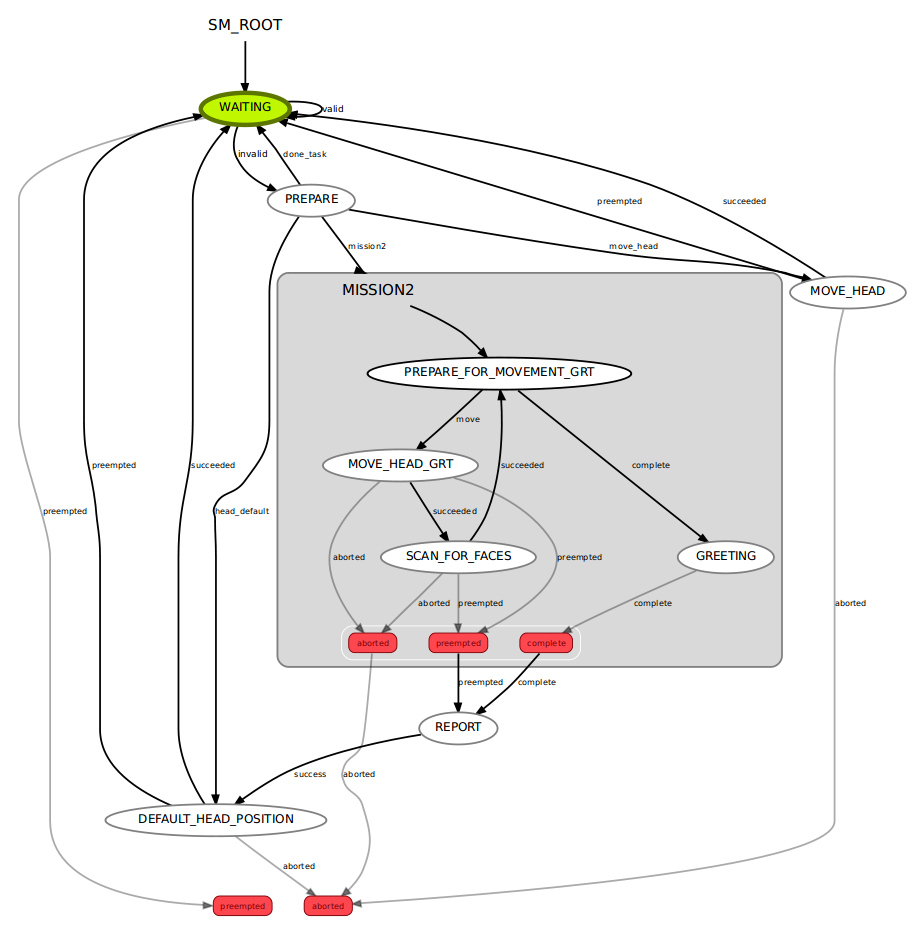
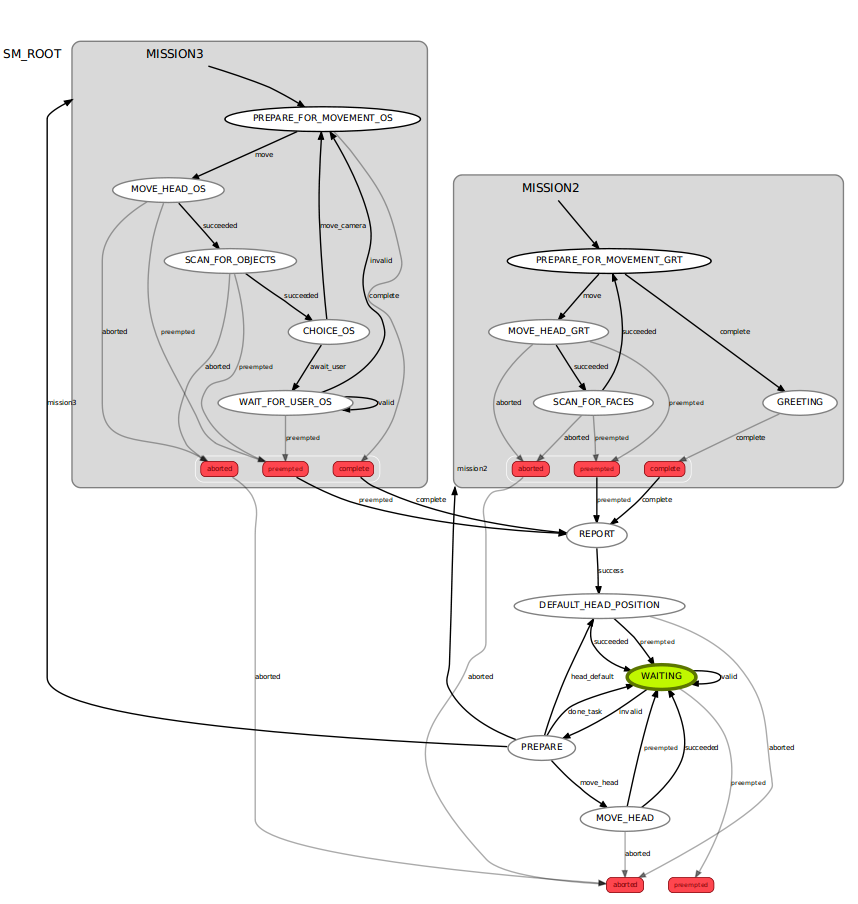
Adding back in mission3

diff --git a/src/missions_lib/object_search.py b/src/missions_lib/object_search.py
@@ -1,0 +1,142 @@
+#!/usr/bin/env python
+# States for searching for an object
+
+import rospy
+from std_msgs.msg import Empty
+from smach import State, StateMachine
+from smach_ros import SimpleActionState, MonitorState
+from actionlib_msgs.msg import GoalStatus
+from head_control.msg import point_headAction, point_headGoal
+from tf_object_detection.msg import scan_for_objectsAction
+
+# Child (derived) class. Parent class is StateMachine
+class Mission3StateMachine(StateMachine):
+    def __init__(self, helper_obj):
+        StateMachine.__init__(self, outcomes=['complete', 'preempted','aborted'], input_keys=['mission_data','start'])
+
+        self.__helper_obj = helper_obj
+
+        with self:
+            # This state will calculate the next head/camera position
+            StateMachine.add('PREPARE_FOR_MOVEMENT_OS',
+                             PrepareMovementObjectSearch(self.__helper_obj),
+                             transitions={'complete':'complete','move':'MOVE_HEAD_OS'},
+                             remapping={'start_in':'start','start_out':'start'})
+                                 
+            # This state will call the action to move the head/camera
+            StateMachine.add('MOVE_HEAD_OS',
+                             SimpleActionState('head_control_node',
+                             point_headAction,                                                            
+                             goal_slots=['absolute','pan','tilt']),
+                             transitions={'succeeded':'SCAN_FOR_OBJECTS','preempted':'preempted','aborted':'aborted'},
+                             remapping={'absolute':'user_data_absolute','pan':'user_data_pan','tilt':'user_data_tilt'}) 
+                
+            # This state will call the action to scan for objects on the image from the camera.
+            StateMachine.add('SCAN_FOR_OBJECTS',
+                             SimpleActionState('object_detection',
+                             scan_for_objectsAction,
+                             result_cb=self.object_detection_result_cb,
+                             input_keys = ['mission_data'],
+                             output_keys = ['object_detected']),
+                             transitions={'succeeded':'CHOICE_OS','preempted':'preempted','aborted':'aborted'})                
+                
+            # This state will will make the decision which state to move to
+            # next. If the object in question was detected then it will move
+            # to a state that waits for user interaction. If the object was
+            # not detected then it will move to the state to move the camera.
+            # This seems a bit of an overkill but the SimpleActionState before it
+            # can only provide the three possible outcomes 'succeeded', 'aborted'
+            # or 'preempted'. This state will request speech to state the
+            # object was found.
+            StateMachine.add('CHOICE_OS',
+                              ChoiceObjectSearch(self.__helper_obj),           
+                              transitions= {'move_camera':'PREPARE_FOR_MOVEMENT_OS',
+                                            'await_user':'WAIT_FOR_USER_OS'})
+
+            # This state will wait for a message indicating the user wishes
+            # to move on. It will allow the user to examine the camera feed
+            # once an object was detected
+            StateMachine.add('WAIT_FOR_USER_OS',
+                             MonitorState('/missions/acknowledge',
+                             Empty,
+                             self.UserAckOS),
+                             transitions={'valid':'WAIT_FOR_USER_OS',
+                                          'invalid':'PREPARE_FOR_MOVEMENT_OS',
+                                          'preempted':'preempted'})
+
+    def object_detection_result_cb(self, userdata, status, result):
+        if status == GoalStatus.SUCCEEDED:
+            # Extract the result results
+            if len(result.names_detected) == 0:
+                # No objects recognised
+                userdata.object_detected = False
+            else:
+                # Objects detected, but did we find the one we are interested in?
+                userdata.object_detected = False
+                for n in result.names_detected:
+                    if n == userdata.mission_data:
+                        userdata.object_detected = True                      
+                        break
+
+        # By not returning anything here (at this indentation) the state will 
+        # return with the corresponding outcome of the action 
+
+    def UserAckOS(self, userdata, msg):
+        # User acknowledged so move on        
+        
+        # Returning False means the state transition will follow the invalid outcome
+        return False
+
+# PREPARE_FOR_MOVEMENT_OS State
+class PrepareMovementObjectSearch(State):
+    def __init__(self, helper_obj):
+        State.__init__(self, outcomes=['complete','move'],
+                       input_keys=['start_in'],
+                       output_keys=['start_out','user_data_absolute','user_data_pan','user_data_tilt'])
+        self.__helper_obj = helper_obj                                 
+                       
+    def execute(self, userdata):
+        # Is this a new search?
+        if userdata.start_in == True:
+            userdata.start_out = False
+            scan_complete = False
+            # get the camera start position (pan min and tilt min)
+            position_request_pan, position_request_tilt = self.__helper_obj.CameraToStartPos()
+        else:            
+            scan_complete, position_request_pan, position_request_tilt = self.__helper_obj.CameraToNextPos()
+
+        # Set up user data that will be used for goal in next state if not complete
+        userdata.user_data_absolute = True
+        userdata.user_data_pan = position_request_pan
+        userdata.user_data_tilt = position_request_tilt
+
+        if scan_complete == True:
+            greeting = "Mission complete Rodney standing by"            
+            self.__helper_obj.Speak(greeting, greeting)
+            next_outcome = 'complete'
+        else:
+            next_outcome = 'move'                
+        	    
+        return next_outcome
+
+# CHOICE_OS State
+class ChoiceObjectSearch(State):
+    def __init__(self, helper_obj):
+        State.__init__(self, outcomes=['move_camera','await_user'],
+                       input_keys=['object_detected','mission_data'])
+        self.__helper_obj = helper_obj
+                       
+    def execute(self, userdata):
+        # Now make the decission on the next state to transit to based on if
+        # the object was detected on the last scan
+        if userdata.object_detected == True:
+            next_outcome = 'await_user'
+            # We will also request that the robot speaks in response to detecting the object
+            greeting = userdata.mission_data + " detected"
+            rospy.loginfo(greeting)
+            self.__helper_obj.Speak(greeting, greeting)
+        else:
+            next_outcome = 'move_camera'
+        
+        return next_outcome    
+

diff --git a/src/rodney_missions_node.py b/src/rodney_missions_node.py
@@ -173,7 +173,7 @@ class MissionsHelper():
 # The PREPARE state
 class Prepare(State):
     def __init__(self, helper_obj):
-        State.__init__(self, outcomes=['mission2','done_task','head_default','move_head'], 
+        State.__init__(self, outcomes=['mission2','mission3','done_task','head_default','move_head'], 
                        input_keys=['mission'],
                        output_keys=['mission_data','start','user_data_absolute','user_data_pan','user_data_tilt'])
         self.__helper_obj = helper_obj
@@ -192,6 +192,12 @@ class Prepare(State):
             # other parameters with this mission request
             userdata.start = True
             retVal = 'mission2'
+        elif parameters[0] == 'M3':
+            # Mission 3 is scan for the given object
+            # parameters[1] will contain the object to detect
+            userdata.mission_data = parameters[1]
+            userdata.start = True
+            retVal = 'mission3'
         elif parameters[0] == 'J1':
             # Simple Job 1 is play a supplied wav file and move the face lips           
             # Publish topic for speech wav and robot face animation
@@ -260,7 +266,7 @@ class RodneyMissionsNode:
             # Add state to prepare the mission            
             StateMachine.add('PREPARE',
                              Prepare(self.__missions_helper),                             
-                             transitions={'mission2':'MISSION2',
+                             transitions={'mission2':'MISSION2','mission3':'MISSION3',
                                           'done_task':'WAITING','head_default':'DEFAULT_HEAD_POSITION',
                                           'move_head':'MOVE_HEAD'})
                              
@@ -299,7 +305,17 @@ class RodneyMissionsNode:
             # Now add the sub state machine for mission 2 to the top level one
             StateMachine.add('MISSION2', 
                              self.__sm_mission2, 
-                             transitions={'complete':'REPORT','preempted':'REPORT','aborted':'aborted'})                                        
+                             transitions={'complete':'REPORT','preempted':'REPORT','aborted':'aborted'})
+                             
+            # ------------------------- Sub State machine for mission 3 ---------------------
+            # Create a sub state machine for mission 2 - object search
+            self.__sm_mission3 = missions_lib.Mission3StateMachine(self.__missions_helper)
+
+            # Now add the sub state machine for mission 3 to the top level one
+            StateMachine.add('MISSION3', 
+                             self.__sm_mission3, 
+                             transitions={'complete':'REPORT','preempted':'REPORT','aborted':'aborted'})                                                                     
+                             
             # -------------------------------------------------------------------------------
             
         # Create and start the introspective server so that we can use smach_viewer
@@ -326,7 +342,9 @@ class RodneyMissionsNode:
     def CancelCallback(self, data):
         # If a sub statemachine for a mission is running then request it be preempted
         if self.__sm_mission2.is_running():
-            self.__sm_mission2.request_preempt()        
+            self.__sm_mission2.request_preempt()
+        elif self.__sm_mission3.is_running():
+            self.__sm_mission3.request_preempt()
         
     def ShutdownCallback(self):        
         self.__sm.request_preempt()

diff --git a/src/missions_lib/__init__.py b/src/missions_lib/__init__.py
@@ -1,5 +1,7 @@
 # __init__.py
 from .greet_all import Mission2StateMachine
+from .object_search import Mission3StateMachine
+
 
 
 

diff --git a/README.md b/README.md
@@ -16,6 +16,8 @@ Topics:
 * `speech/to_speak`:  
   Publishes `speech/voice` A message with either text containing the words to speak or wav containing the path of the wav file to play
   
+* `missions/acknowledge` Some missions require the operator to acknowledge before continuing
+  
 * `robot_face/text_out`:  
   Publishes `std_msgs/String` Text for the robot face to animate the lips to
   
@@ -25,6 +27,7 @@ Topics:
 Action Clients:
 * `head_control_node`: To request movement of the head
 * `face_recognition`: To request and obtain the result of a face recognition scan on an image from the camera
+* `object_detection`: To request and obtain the result of a object detection scan on an image from the camera
 
 Parameters:
 
@@ -73,5 +76,23 @@ The top level state machine contains the following states
     
   * `GREETING`:  
     A state responsible for forming the response to any faces recognised
+    
+* `MISSION3`:  
+  A sub state machine resposible for controlling mission 3, object recognition
+  
+  * `PREPARE_FOR_MOVEMENT_OS`:  
+    A state which sets up the next required position of the head/camera
 
+  * `MOVE_HEAD_OS`:  
+    A SimpleActionState that requests the head/camera be moved
+    
+  * `SCAN_FOR_OBJECTS`:  
+    A SimpleActionState that requests the scan for objects operation be carried out on the current image from the camera
+    
+  * `CHOICE_OS`:  
+    A state which decides on the next state to transit to based on if the object in question was detected or not.
+    
+  * `WAIT_FOR_USER_OS`:  
+     A monitor state for the /missions/acknowledge topic
+ 
 

diff --git a/CHANGELOG.rst b/CHANGELOG.rst
@@ -2,6 +2,10 @@
 Changelog for package rodney_missions
 ^^^^^^^^^^^^^^^^^^^^^^^^^^^^^^
 
+Unreleased
+------------------
+* Now includes mission 3
+
 1.0.1 (2019/01/14)
 ------------------
 * When manual head movement will exceed min/max instead of not moving the head will move to the min/max
